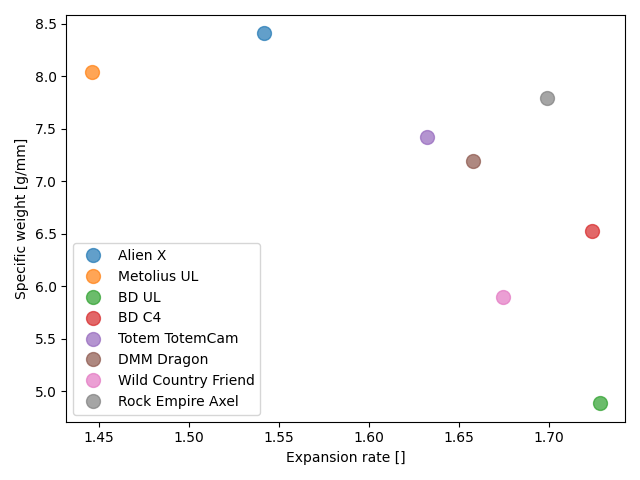
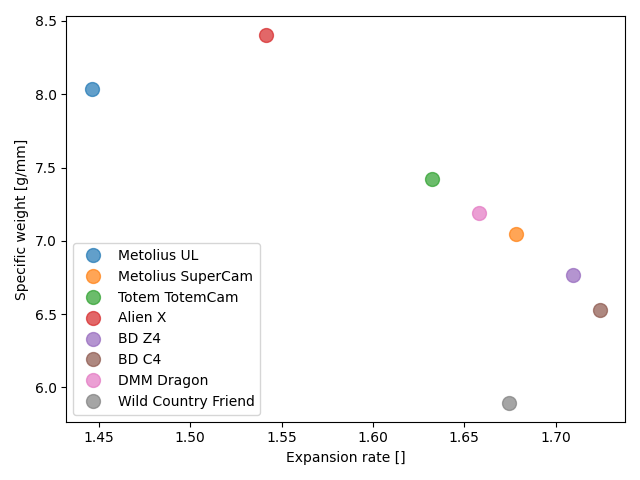
updated readme

diff --git a/climbing_cams.py b/climbing_cams.py
@@ -12,7 +12,7 @@ class Units:
     length_factor = 1
     weight_factor = 1
     strength_factor = 1
-    range = min = max = avg = 'mm'
+    range = min = max = avg = expansion_range = 'mm'
     weight = 'g'
     strength = 'kN'
     expansion_rate = ''
@@ -23,7 +23,7 @@ class Units:
         if system == cls.System.INTERNATIONAL:
             cls.length_factor = 1
             cls.weight_factor = 1
-            cls.range = cls.min = cls.max = cls.avg = 'mm'
+            cls.range = cls.min = cls.max = cls.avg = cls.expansion_range = 'mm'
             cls.weight = 'g'
             cls.strength = 'kN'
             cls.expansion_rate = ''
@@ -31,7 +31,7 @@ class Units:
         elif system == cls.System.IMPERIAL:
             cls.length_factor = 0.0393701
             cls.weight_factor = 0.00220462
-            cls.range = cls.min = cls.max = cls.avg = 'in'
+            cls.range = cls.min = cls.max = cls.avg = cls.expansion_range = 'in'
             cls.weight = 'lb'
             cls.strength = 'kN'
             cls.expansion_rate = ''
@@ -79,12 +79,16 @@ class Cam:
         return self.max / self.min
 
     @property
+    def expansion_range(self):
+        return self.max - self.min
+
+    @property
     def range(self):
         return [self.max, self.min]
 
     @property
     def specific_weight(self):
-        return self.weight / (self.max - self.min)
+        return self.weight / self.expansion_range
 
 
 class Rack(list):
@@ -127,6 +131,11 @@ class Rack(list):
     def expansion_rate(self):
         ratii = [i.expansion_rate for i in self]
         return sum(ratii) / len(self)
+
+    @property
+    def expansion_range(self):
+        ranges = [i.expansion_range for i in self]
+        return sum(ranges) / len(self)
 
     def name(self, sep=' '):
         names = [i.brand + sep + i.name for i in self]

diff --git a/examples/comparison.py b/examples/comparison.py
@@ -5,16 +5,17 @@ import climbing_cams as cams
 import matplotlib.pyplot as plt
 
 data = cams.load_data()
-families_specifications = [
+family_specifications = [
     {'brand':'Metolius',     'name':'UL'},
     {'brand':'Metolius',     'name':'SuperCam'},
     {'brand':'Totem',        'name':'TotemCam'},
     {'brand':'Alien',        'name':'X'},
+    {'brand':'BD',           'name':'Z4'},
     {'brand':'BD',           'name':'C4'},
     {'brand':'DMM',          'name':'Dragon'},
     {'brand':'Wild Country', 'name':'Friend'}
 ]
-families = [cams.select_cams(data, **spec) for spec in families_specifications]
+families = [cams.select_cams(data, **spec) for spec in family_specifications]
 cams.Plot.plot_ranges(families, smart_ylabels=True, numbers_inside=True)
 cams.Plot.scatter_average(families, 'expansion_rate', 'specific_weight')
 fig, ax = plt.subplots(2,1)

diff --git a/README.md b/README.md
@@ -3,10 +3,35 @@
 Just for fun. This small repo contains a set of tools for graphic visualization of the properties of climbing cams or *friends*.
 This tool is intended to show quantitative static properties, such as the expansion rate or weight. Other properties are not static, such as price. Hence, it is not included in this repo. Finally, but not least important, there are qualitative properties, such as walking and personal feeling, which are not included in this repo.
 
-A little bit of history. *Friends* where invented by [Ray Jardine](https://www.rayjardine.com/Home/index.php), an aerospace engineer. After several years of development, Ray joined with Mark Valance, who founded Wild Country and commercialized the first *Friends*. Currently, the original patents have expired and it's now an open market.
+A little bit of history. *Friends* where invented by [Ray Jardine](https://www.rayjardine.com/Home/index.php), an aerospace engineer. After several years of development, Ray joined with Mark Valance, who founded Wild Country and commercialized the first *Friends*. Nowadays, the original patents have expired and the climbing cams are now an open market.
 
 ## Some examples
 
+Several cams are pre-loaded in the database, these are the available brands:
+- Black Diamond C4
+- Black Diamond UL
+- Black Diamond Z4
+- Metolius UL
+- Metolius Super cam
+- Totem Cam
+- DMM Dragon
+- Wild Country Friend
+- Rock Empire Axel
+- LACD Twin
+- Alien X
+
+The figure below shows a typical bar chart for racks comparison. Selection of cams can be done by the user 
+
 ![Expansion rate bar chart](doc/climbing_cams_bar_chart.png)
+
+Scatter plots can be done showing the average of a family or plotting individually every cam. Family plots are more compacts and easier to read. Expansion rate and specific weight is an interesting properties and its average values are plotted below. Surprisingly, Wild Countri Friends are extremely light according to this comparison.
+
 ![Expansion rate vs specific weight](doc/expansion_rate_families.png)
+
+For a bette rvisualization, logarithmic scales have been used.
+
+Cams can be plotted individually. The absolute weight is also important, not only the specific weight. When looking at individual cams, it can be seen that Metolius UL strategy is to have multiple and extremely light cams, so you can carry more cams in your harness while keeping the same weight.
+
 ![Expansion rates vs weight](doc/expansion_rate_individual.png)
+
+When the same plot is repeated for specific weights, the slope of the _thick line_ is the opposite. DMM Dragon are very similar to Black Diamond UL, and Black Diamond Z4 excel at small sizes.
